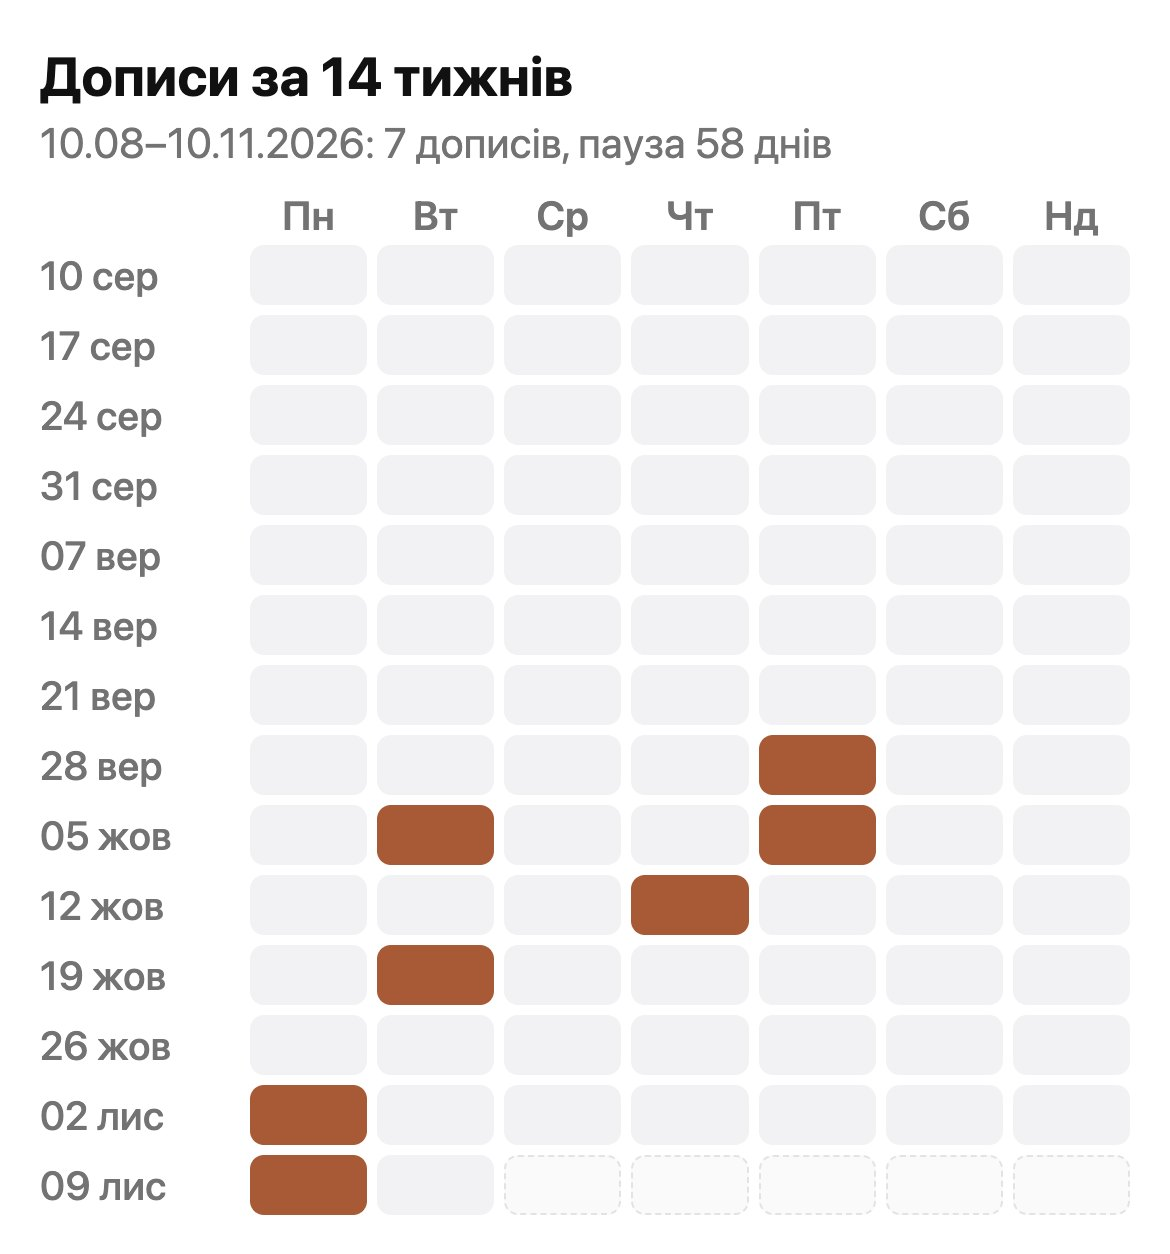
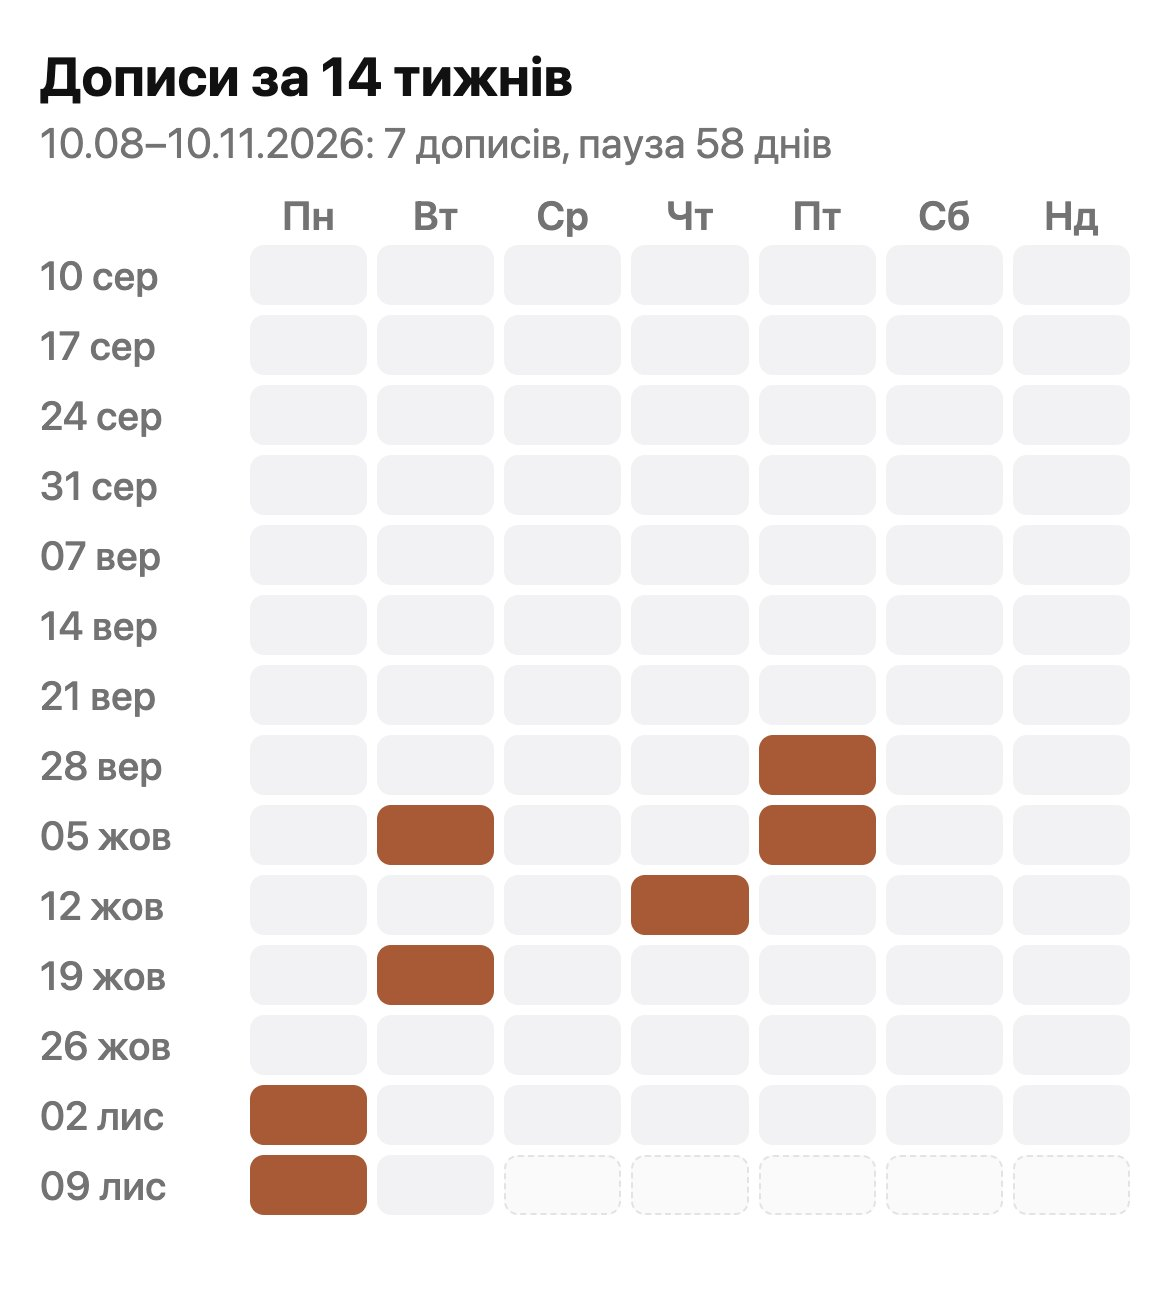
ЦА без 18–30, сторіз вт/чт у плані, прибрано блок про приріст

diff --git a/index.html b/index.html
@@ -231,7 +231,7 @@ a.shot{border-color:#d6d6d6;box-shadow:0 10px 26px rgba(0,0,0,.10)}
         <figure><figcaption class="lab now">Як зараз</figcaption><a class="shot" href="img/cal_now.jpg" target="_blank"><img src="img/c_rhythm_now.jpg" alt="Як зараз: Регулярний ритм" loading="lazy"></a></figure>
         <figure><figcaption class="lab todo">Як варто</figcaption><a class="shot" href="img/cal_should.jpg" target="_blank"><img src="img/c_rhythm_should.jpg" alt="Як варто: Регулярний ритм" loading="lazy"></a></figure>
       </div>
-      <p class="note">За 14 тижнів 7 дописів, пауза 58 днів. Варто: 3 на тиждень.</p>
+      <p class="note">За 14 тижнів 7 дописів, пауза 58 днів. Варто: 3 дописи на тиждень (рілс, карусель, рілс) і сторітели у вівторок і четвер.</p>
     </div>
   </div>
 </section>
@@ -273,7 +273,7 @@ a.shot{border-color:#d6d6d6;box-shadow:0 10px 26px rgba(0,0,0,.10)}
         <p>Хайлайти за запитами: «Страхи», «Сором», «Безпека».</p>
       </div>
     </div>
-    <div class="callout">Спільне: місто й формат у шапці, запис одним дотиком, хайлайти за запитами. Для дівчат і жінок 18–30 це «Самооцінка» і «Стосунки».</div>
+    <div class="callout">Спільне: місто й формат у шапці, запис одним дотиком, хайлайти за запитами. Для ваших запитів це «Самооцінка», «Стосунки» і «Цифри».</div>
   </div>
 </section>
 
@@ -285,7 +285,6 @@ a.shot{border-color:#d6d6d6;box-shadow:0 10px 26px rgba(0,0,0,.10)}
       <div><b>Місяць 2</b>Запуск реклами. За щотижневою аналітикою бачу, які теми дають звернення, і пишу нові під них.</div>
       <div><b>Місяць 3</b>Стабільний ритм, перший порівняльний звіт за три місяці.</div>
     </div>
-    <div class="callout">Цифр приросту не обіцяю: результат залежить від зйомок, швидкості відповідей і сезону. Міряю від бази: медіана рілса 305, 4 дописи за 30 днів.</div>
   </div>
 </section>
 
@@ -296,7 +295,7 @@ a.shot{border-color:#d6d6d6;box-shadow:0 10px 26px rgba(0,0,0,.10)}
     <div class="first">
       <h3>Перший місяць у кожному пакеті</h3>
       <ul class="cols">
-        <li>Стратегія: позиціонування «психологія + нумерологія», аудиторія 18–30, рубрики</li>
+        <li>Стратегія: позиціонування «психологія + нумерологія», портрет аудиторії за запитами, рубрики</li>
         <li>Розбір колег у Малині й Житомирі</li>
         <li>Контент-план на місяць</li>
         <li>Повна упаковка: ім'я, шапка, категорія, кнопка «Контакти», опис у Telegram</li>
@@ -330,7 +329,7 @@ a.shot{border-color:#d6d6d6;box-shadow:0 10px 26px rgba(0,0,0,.10)}
         <div class="wkline">2 рілси · 1 карусель · 2 сторітели</div>
         <div class="week"><div class="day"><span>Пн</span><div><i class="t r">Р</i></div></div><div class="day"><span>Вт</span><div><i class="t s">С</i></div></div><div class="day"><span>Ср</span><div><i class="t k">К</i></div></div><div class="day"><span>Чт</span><div><i class="t s">С</i></div></div><div class="day"><span>Пт</span><div><i class="t r">Р</i></div></div><div class="day"><span>Сб</span><div></div></div><div class="day"><span>Нд</span><div></div></div></div>
         <div class="sub">На місяць</div>
-        <ul><li>8 рілсів, 4 каруселі, 8 сторітелів</li><li>Сторітели у вівторок і четвер</li><li>Контент-план і рубрики для дівчат і жінок 18–30</li><li>Скрипт відповідей у Direct і Telegram: консультація, нумерологічний розбір, тренінг</li><li>Прогрів до кожного тренінгу: сторітел і рілс за тиждень до події</li><li>Реклама з другого місяця: налаштування й ведення входять у ціну, рекламний бюджет 3–5 тис. грн на місяць окремо, оплачується напряму Meta</li><li>Аналітика щотижня і звіт з розбором щомісяця</li></ul>
+        <ul><li>8 рілсів, 4 каруселі, 8 сторітелів</li><li>Сторітели у вівторок і четвер</li><li>Контент-план і рубрики під ваші запити: самооцінка, стосунки, нумерологія</li><li>Скрипт відповідей у Direct і Telegram: консультація, нумерологічний розбір, тренінг</li><li>Прогрів до кожного тренінгу: сторітел і рілс за тиждень до події</li><li>Реклама з другого місяця: налаштування й ведення входять у ціну, рекламний бюджет 3–5 тис. грн на місяць окремо, оплачується напряму Meta</li><li>Аналітика щотижня і звіт з розбором щомісяця</li></ul>
         <div class="time"><b>Ваш час на місяць:</b> 2 зйомки до 1,5 год і до 15 хв на тиждень.</div>
         <div class="gives"><b>Що це дає:</b> Ритм 3 публікації на тиждень плюс сторіс. З другого місяця реклама приводить нових людей, тренінги продаються з вашого акаунта, а Direct і Telegram стають зрозумілим шляхом до запису.</div>
       </div>
